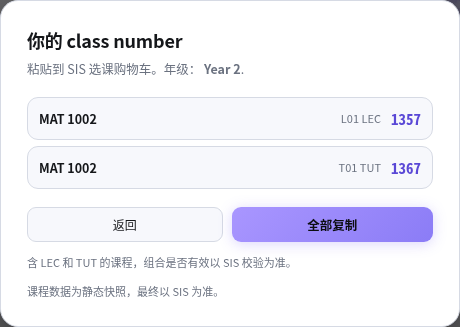
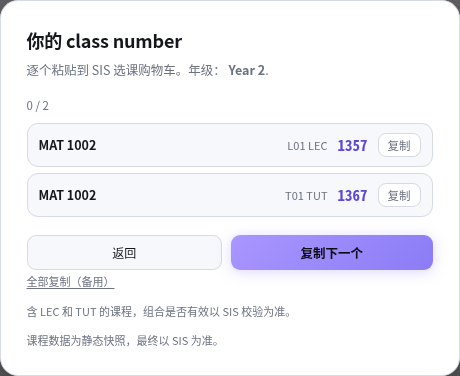
Update site from working copy

diff --git a/index.html b/index.html
@@ -87,7 +87,14 @@ button{font-family:inherit}
 .primary:disabled{background:var(--surface-3);color:var(--muted);cursor:default;box-shadow:none}
 
 /* ---------- layout ---------- */
-.layout{display:grid;grid-template-columns:344px 384px 1fr;height:calc(100vh - 55px)}
+.layout{display:grid;grid-template-columns:344px 384px 1fr;height:calc(100vh - 82px)}
+
+/* ---------- attribution footer (competition requirement) ---------- */
+.attrib{height:26px;display:flex;align-items:center;justify-content:center;gap:12px;padding:0 12px;
+  background:var(--surface);border-top:1px solid var(--line);font-size:10.5px;color:var(--muted);
+  white-space:nowrap;overflow:hidden}
+.attrib span{overflow:hidden;text-overflow:ellipsis}
+.attrib .sep{opacity:.55}
 aside.left{border-right:1px solid var(--line);background:var(--surface);display:flex;flex-direction:column;min-height:0}
 aside.mid{border-right:1px solid var(--line);background:var(--surface);display:flex;flex-direction:column;min-height:0}
 main{padding:14px;overflow:auto;background:var(--bg)}
@@ -258,6 +265,9 @@ body.guide-open header a.ghost{opacity:1;pointer-events:auto}
   header .ghost{padding:5px 9px;font-size:11.5px}
   header .primary{padding:7px 11px;font-size:11.5px}
   .layout{display:block;height:auto}
+  .attrib{height:auto;min-height:26px;white-space:normal;text-align:center;padding:6px 10px;
+    flex-direction:column;gap:2px;font-size:10px}
+  .attrib .sep{display:none}
   aside.left,aside.mid{width:auto;border-right:none;border-bottom:1px solid var(--line)}
   aside.left{height:auto}
   #pinnedList{max-height:none}
@@ -325,6 +335,12 @@ body.guide-open header a.ghost{opacity:1;pointer-events:auto}
     <div class="grid" id="grid"></div>
   </main>
 </div>
+
+<footer class="attrib" aria-label="Competition attribution">
+  <span>2026 AI Vibe Coding 大赛 · 主办单位｜香港中文大学（深圳）人文社科学院跨文化交流学科部</span>
+  <span class="sep">·</span>
+  <span>2026 AI Vibe Coding Competition · Presented by the Division of Intercultural Communication, School of Humanities and Social Science, CUHK-Shenzhen</span>
+</footer>
 
 <!-- guide hint modal (first visit) -->
 <div class="modal" id="guideModal">

diff --git a/README.md b/README.md
@@ -140,7 +140,7 @@ One point is easy to miss. A **course code** (three letters plus four digits, e.
 
 ### Why it is faster: two workflows
 
-![Traditional flow vs BetterSISSearch](assets/flow-compare.png)
+![Traditional flow vs BetterSISSearch](assets/en/flow-compare-en.png)
 
 Same goal (example: MAT 1002, L01 LEC + T01 TUT), two paths:
 
@@ -158,9 +158,9 @@ A senior classmate's test: with the courses already known, **10 minutes** to bui
 
 ![SIS: 50 sections and a successful add](assets/sis-added.png)
 
-![BetterSISSearch planning view](assets/bettersis-plan.png)
+![BetterSISSearch planning view](assets/en/bettersis-plan-en.png)
 
-![Class numbers after confirmation](assets/bettersis-classnumbers.png)
+![Class numbers after confirmation](assets/en/bettersis-classnumbers-en.png)
 
 ### How to use
 
@@ -227,8 +227,8 @@ Notes: feedback comes from real use during this term's enrolment period. User id
 
 ### 统一署名 / Required attribution
 
-署名位置：本 README 文首；作品页面右上角「关于 / About」弹窗（含数据快照日期与联系方式）。
-Attribution locations: the top of this README, and the About dialog in the app (with data snapshot date and contact).
+署名位置：本 README 文首；作品页面**页脚**（每页可见）与右上角「关于 / About」弹窗（含数据快照日期与联系方式）。
+Attribution locations: the top of this README; the page footer (always visible) and the About dialog in the app (with data snapshot date and contact).
 
 2026 AI Vibe Coding 大赛
 主办单位｜香港中文大学（深圳）人文社科学院跨文化交流学科部
